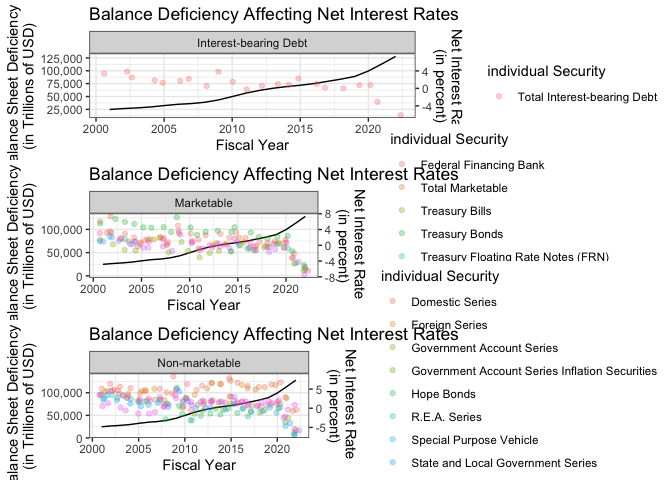
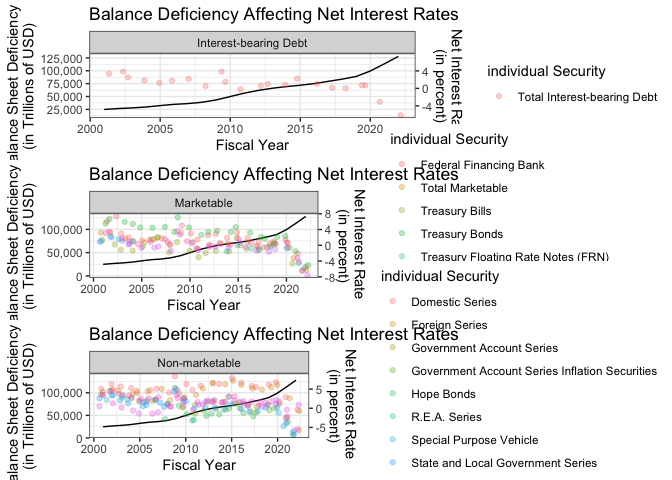
Materials for Project 2

diff --git a/README.md b/README.md
@@ -1365,6 +1365,9 @@ deficiencyAndRatesData %>%
   ) +
   theme(text = element_text(size = 8),
         axis.text.x = element_text(size = 6),
+        axis.title.x = element_text(size = 6),
+        axis.title.y.left = element_text(size = 6),
+        axis.title.y.right = element_text(size = 6),
         axis.text.y.left = element_text(size = 6),
         axis.text.y.right = element_text(size = 6)) +
   labs(color = "Type of Security",
@@ -1425,6 +1428,9 @@ p1 <- ggplot(df$`Interest-bearing Debt`, aes(x = record_calendar_year)) +
        x = "Fiscal Year") +
   theme(text = element_text(size = 8),
         axis.text.x = element_text(size = 6),
+        axis.title.x = element_text(size = 6),
+        axis.title.y.left = element_text(size = 6),
+        axis.title.y.right = element_text(size = 6),
         axis.text.y.left = element_text(size = 6),
         axis.text.y.right = element_text(size = 6)) +
   facet_wrap(vars(security_type_desc)) +
@@ -1476,9 +1482,11 @@ p1 <- ggplot(df$`Interest-bearing Debt`, aes(x = named_month)) +
   labs(color = "individual Security",
        title = "Net Interest Rate Varying by Month",
        x = "Fiscal Year",
-       y = "Net Interest Rate (in percent)") +
+       y = "Net Interest Rate \n(in percent)") +
   theme(text = element_text(size = 8),
         axis.text.x = element_text(size = 6),
+        axis.title.x = element_text(size = 6),
+        axis.title.y = element_text(size = 6),
         axis.text.y = element_text(size = 6)) +
   facet_wrap(vars(security_type_desc)) +
   theme_bw()
@@ -1514,10 +1522,12 @@ interestAndInflationRates %>%
   facet_wrap(vars(security_type_desc), nrow = 3) + 
   theme(text = element_text(size = 8),
         axis.text.x = element_text(size = 6),
+        axis.title.x = element_text(size = 6),
+        axis.title.y = element_text(size = 6),
         axis.text.y = element_text(size = 6)) +
   labs(title = 'How the Inflation Rates and Interest Rates were in the Year: {frame_time}', 
-       x = 'Inflation Rate (in percent)', 
-       y = 'Interest Rate Offerred (in percent)') +
+       x = 'Inflation Rate \n(in percent)', 
+       y = 'Interest Rate Offerred \n(in percent)') +
   transition_manual(record_calendar_year) +
   theme_bw()
 ```
